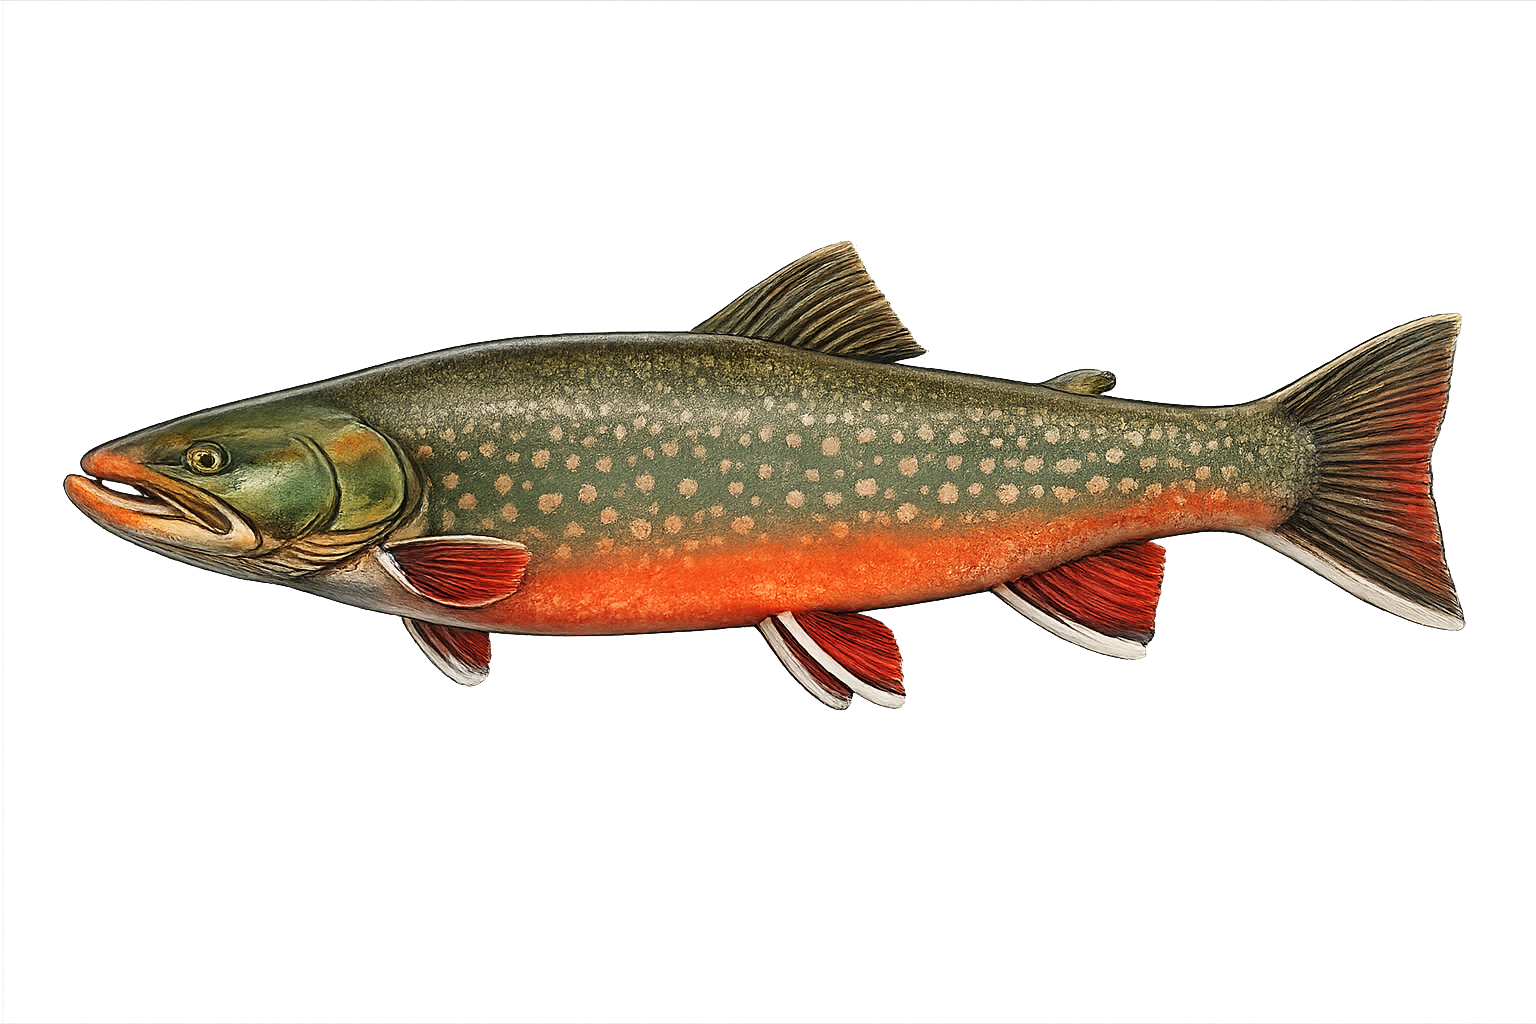
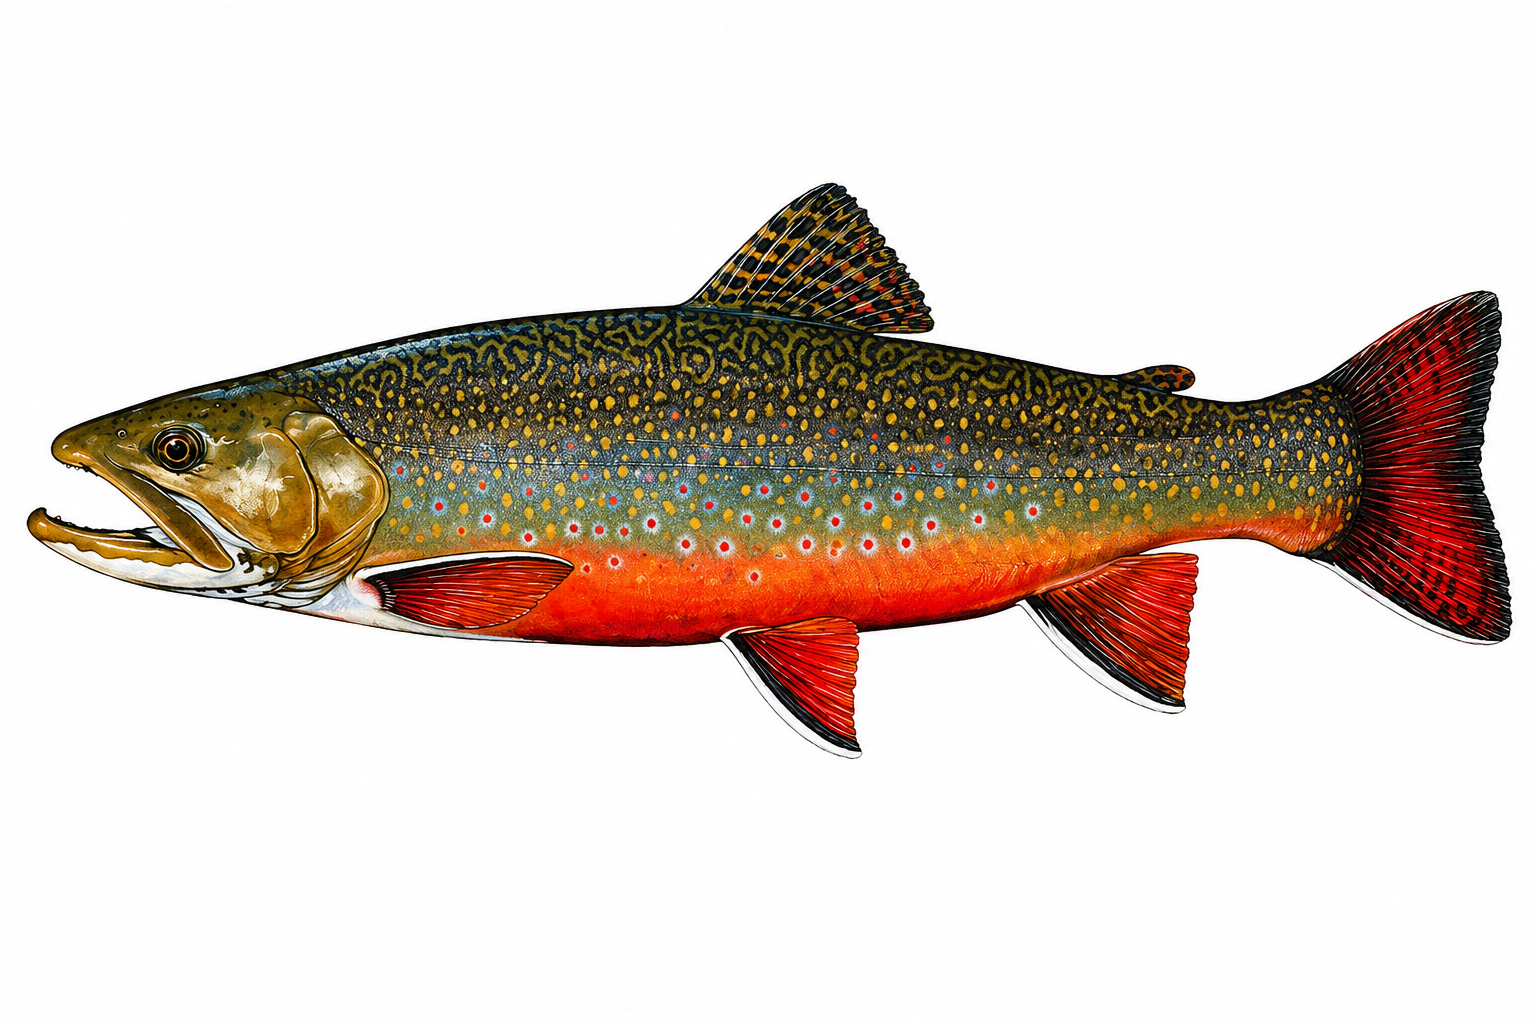
Complete the freshwater sprite set
Registers the last six species (brook trout, cutthroat trout, bull trout,
sockeye salmon, lingcod, Inconnu) and picks up the reworked arctic char and
dolly varden art.

chinook salmon.png was removed in the same pass, which left mtnking pointing at
a missing file. Chinook and king salmon are the same fish, so both King Salmon
entries — Northern kingsalmon and Mountains mtnking — now share king salmon.png.

Every freshwater species has raster art: 53 files, 53 referenced, none
unreferenced and none missing. Across all 106 registered sprites nothing fails
to load and nothing has an opaque border the keying pass declines (44 keyed at
load, 62 already carrying alpha).

Changed region(s): [[0.0, 0.1562, 1.0, 0.75]]

diff --git a/index.html b/index.html
@@ -5928,7 +5928,7 @@ const PNG_FISH={
   goldentrout:{file:'golden trout.png',alt:'Golden Trout',dir:'freshwater fish'},
   greenlandshark:{file:'greenland shark.png',alt:'Greenland Shark',dir:'freshwater fish'},
   kingsalmon:{file:'king salmon.png',alt:'King Salmon',dir:'freshwater fish'},
-  mtnking:{file:'chinook salmon.png',alt:'King Salmon',dir:'freshwater fish'},
+  mtnking:{file:'king salmon.png',alt:'King Salmon',dir:'freshwater fish'},
   lakesturgeon:{file:'lake sturgeon.png',alt:'Lake Sturgeon',dir:'freshwater fish'},
   laketrout:{file:'lake trout.png',alt:'Lake Trout',dir:'freshwater fish'},
   mtnwhitefish:{file:'mountain whitefish.png',alt:'Mountain Whitefish',dir:'freshwater fish'},
@@ -5938,6 +5938,13 @@ const PNG_FISH={
   whitesturgeon:{file:'white sturgeon.png',alt:'White Sturgeon',dir:'freshwater fish'},
   lakewhitefish:{file:'whitefish.png',alt:'Lake Whitefish',dir:'freshwater fish'},
   yellowperch:{file:'yellow perch.png',alt:'Yellow Perch',dir:'freshwater fish'},
+  // ---- the last six freshwater species ----
+  brooktrout:{file:'brook trout.png',alt:'Brook Trout',dir:'freshwater fish'},
+  bulltrout:{file:'bulltrout.png',alt:'Bull Trout',dir:'freshwater fish'},
+  cutthroattrout:{file:'cutthroat trout.png',alt:'Cutthroat Trout',dir:'freshwater fish'},
+  lingcod:{file:'lingcod.png',alt:'Lingcod',dir:'freshwater fish'},
+  sheefish:{file:'sheefish.png',alt:'Inconnu',dir:'freshwater fish'},
+  sockeyesalmon:{file:'sockeye salmon.png',alt:'Sockeye Salmon',dir:'freshwater fish'},
 };
 // Fish raster art lives in the fish/ folder; filenames may contain spaces.
 // Art now lives in two folders (the old flat fish/ was split in V0.9.8.1), so a
